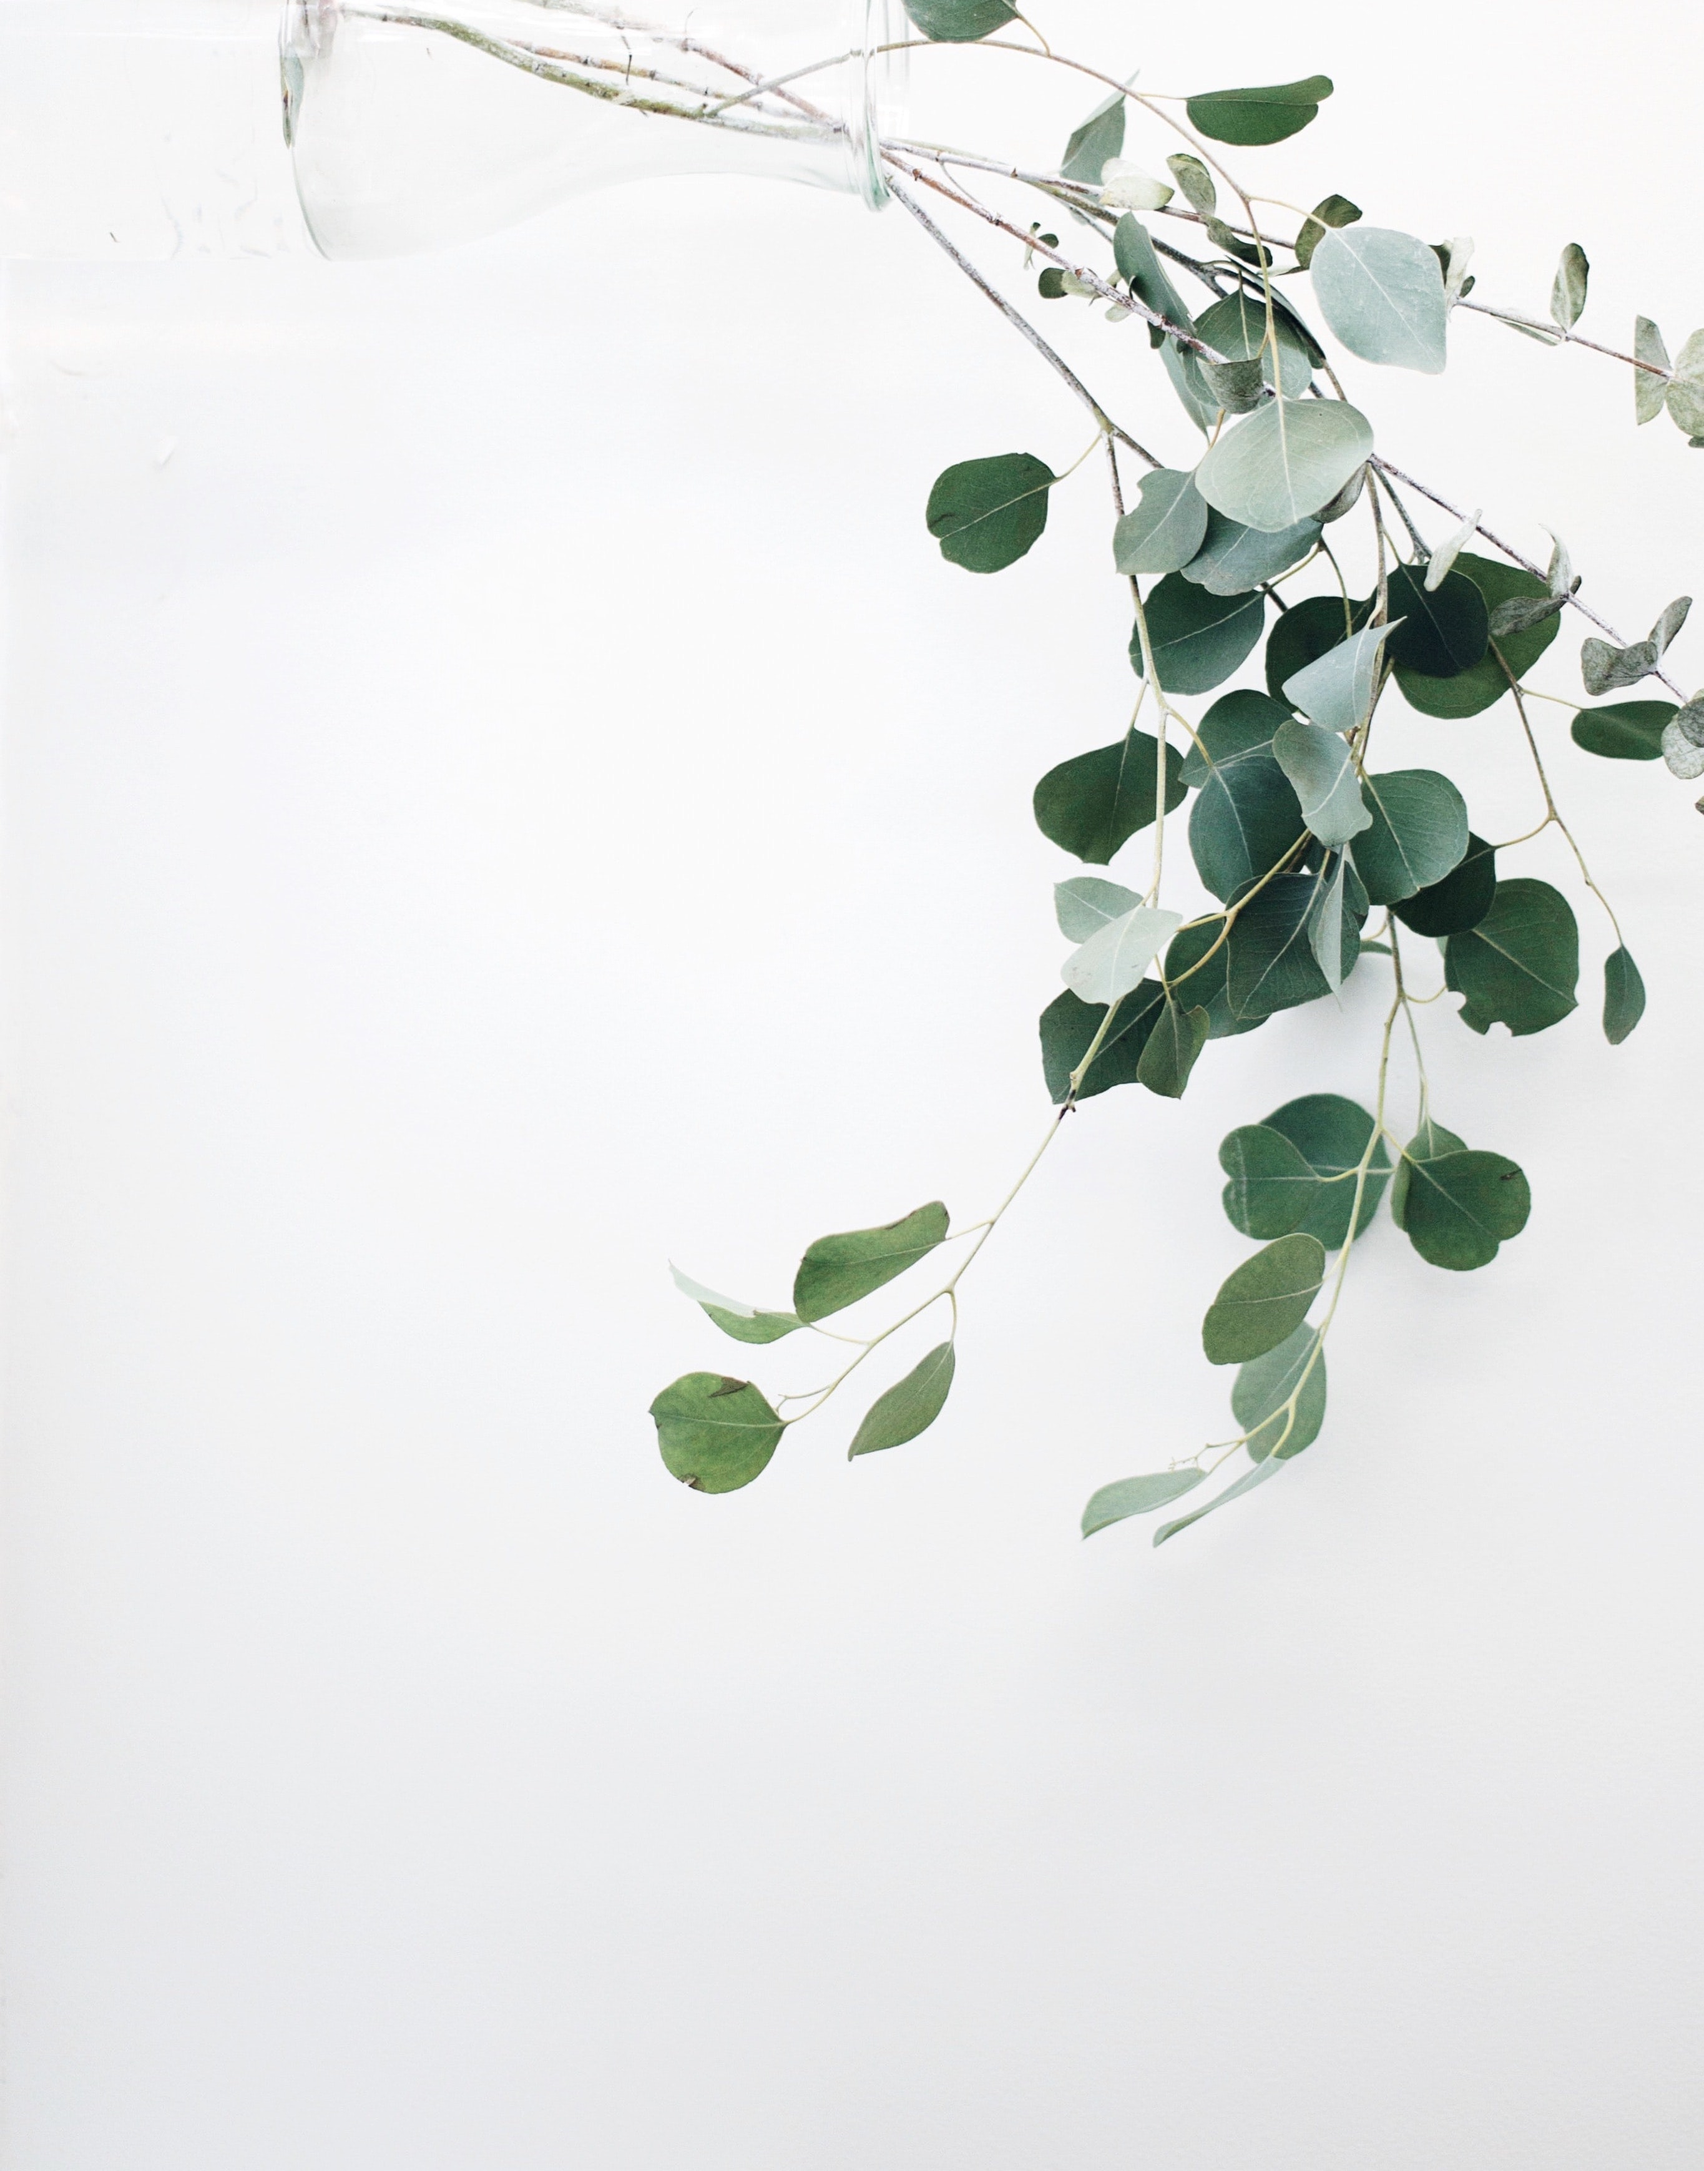
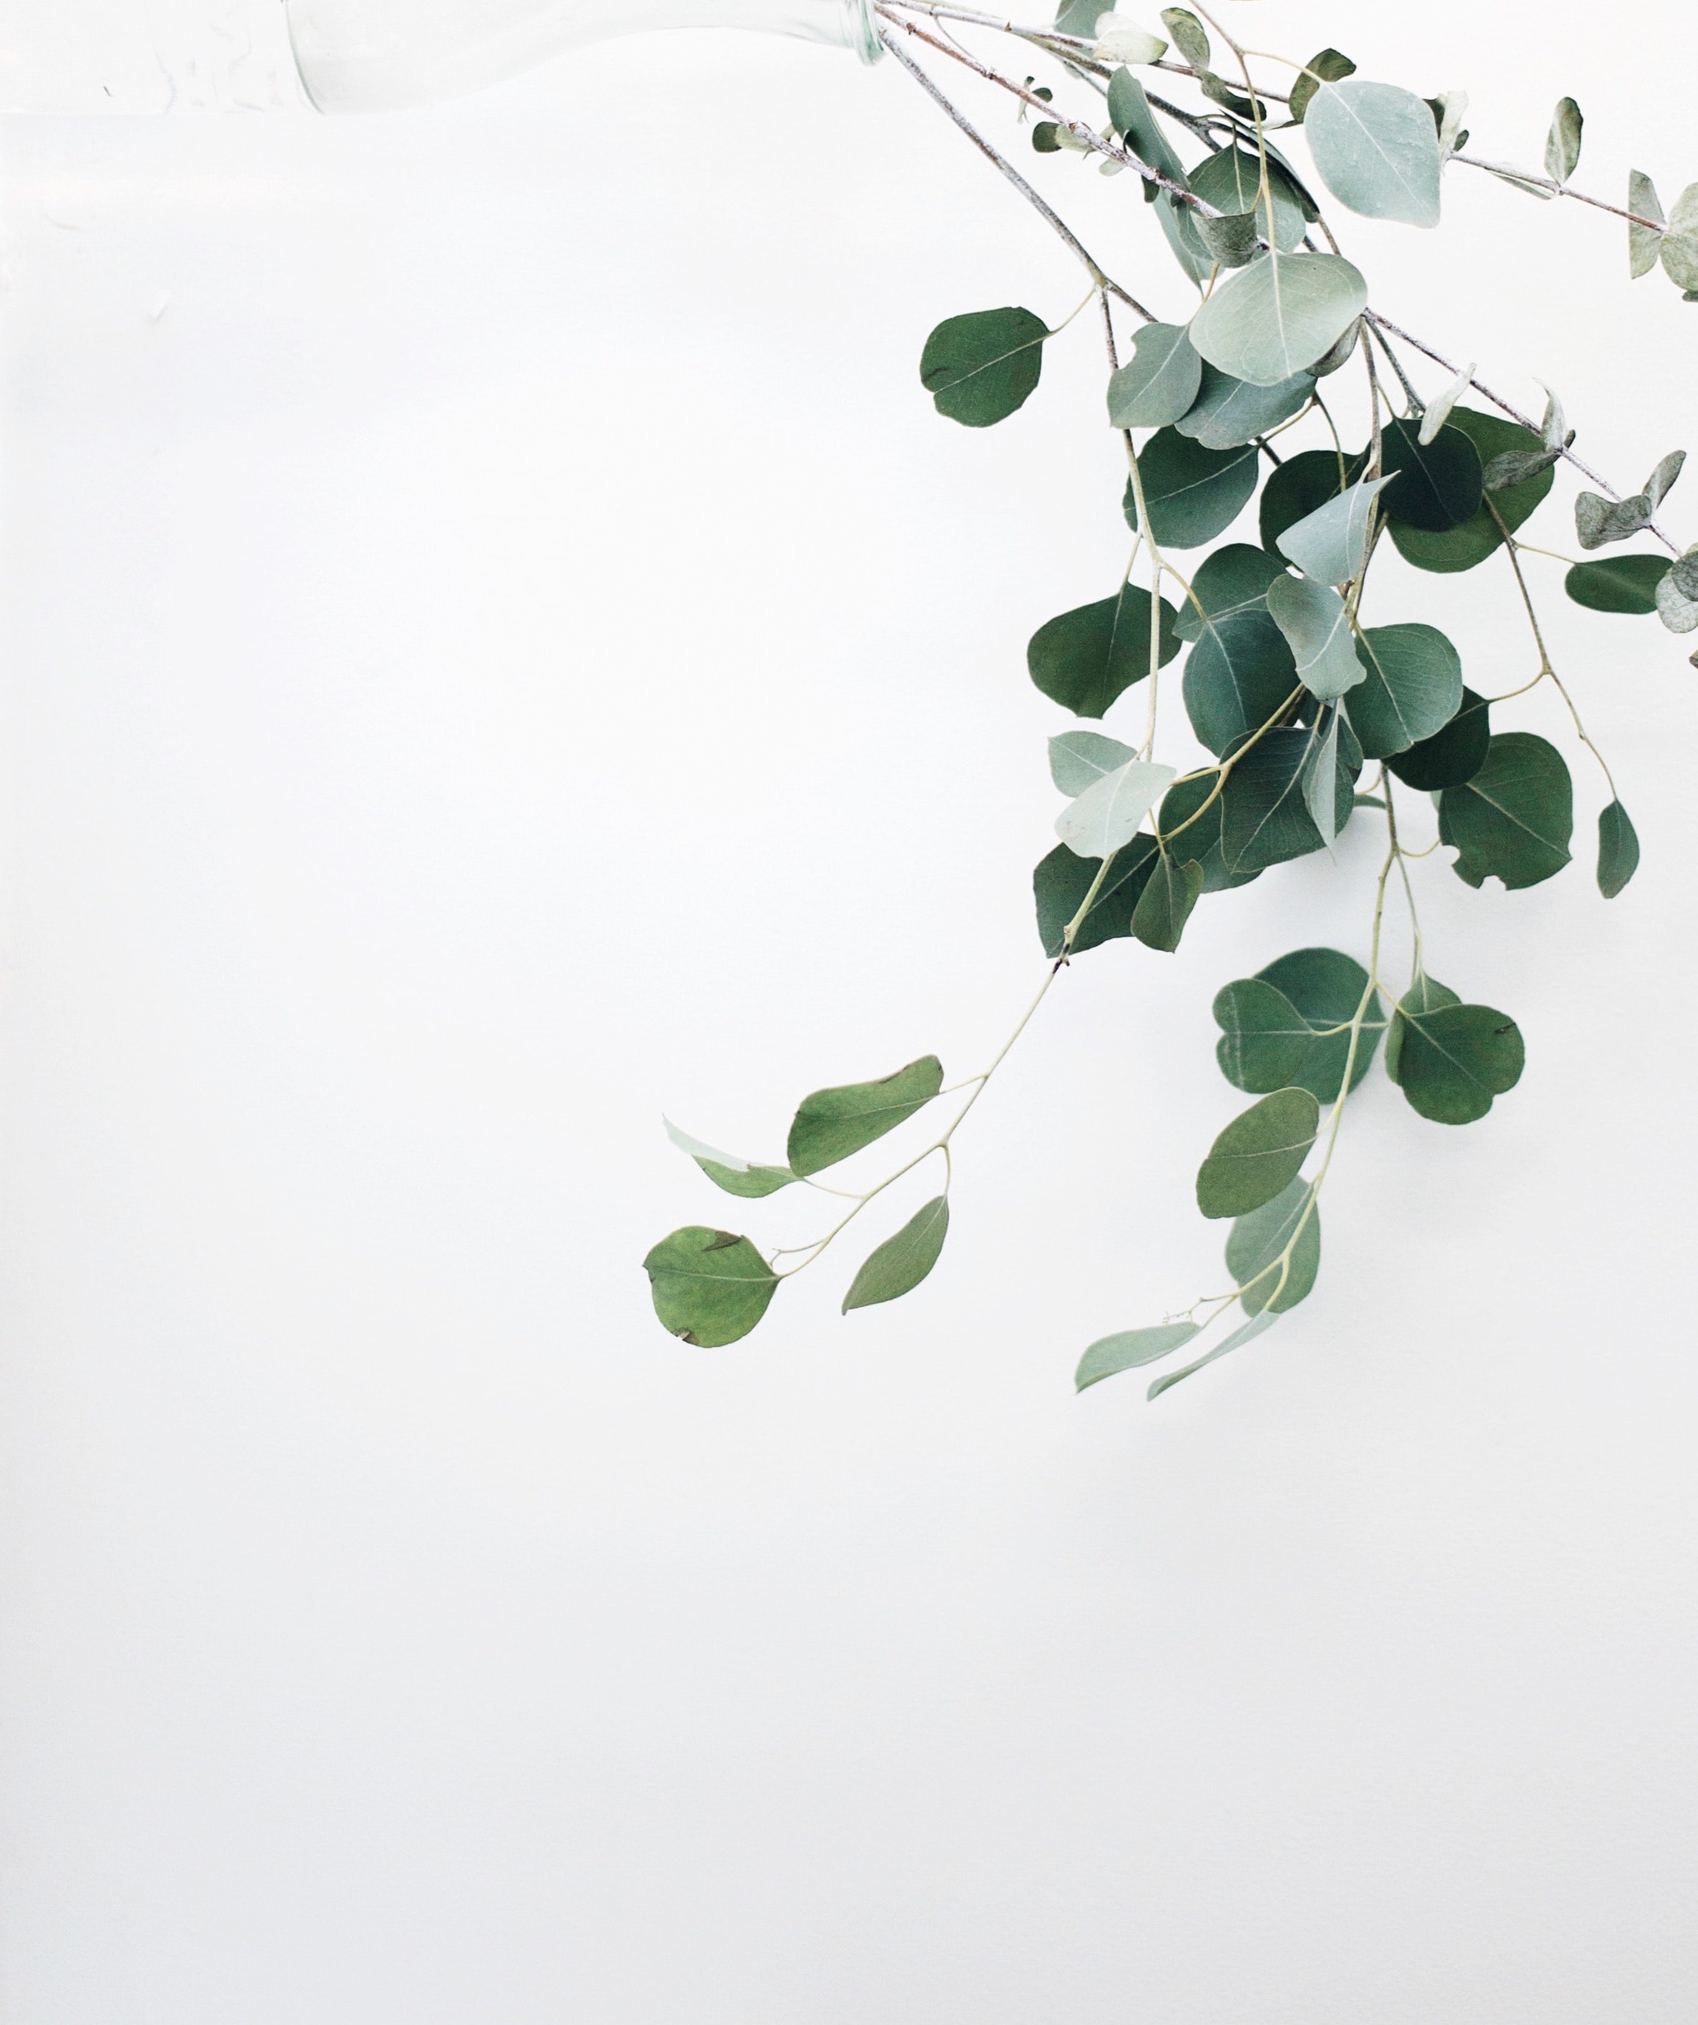
centered show page and login buttons, changed sesion background

Changed region(s): [[0.5, 0.0, 1.0, 0.7161], [0.375, 0.4982, 0.5938, 0.685], [0.1562, 0.0, 0.5, 0.0623]]

diff --git a/app/assets/stylesheets/products/product_show.scss b/app/assets/stylesheets/products/product_show.scss
@@ -11,28 +11,21 @@
     display:flex;
 }
 .show-pic img{
-    height: 518px;
+    height: 100%;
     width: 100%;
 }
 
 .show-content-info-wrapper{
     display: flex;
     flex-direction: column;
-    // justify-content: space-around;
-    // align-items: center;
-    // width:50%;
     height: 100%;
-    border: 1px solid pink;
     padding: 13% 10%;
 }
 
 .show-info{
-    // height: 80%;
     display: flex;
     flex-direction: column;
-    // justify-content: space-evenly;
     align-content: flex-start;
-    border: 1px solid blue
 }
 
 .show-basic-info{
@@ -59,7 +52,6 @@
 .show-product-description{
     max-width: 24vw;
     height: 100%;
-    // width:51%;
     font-size: 15px;
     font-family: "Unica77 LL",sans-serif;
     line-height: 20px;
@@ -71,19 +63,19 @@
     font-family: "Unica77 LL",sans-serif;
 }
 
-.show-info-btn{
-    display: flex;
-    justify-content: flex-start;
-    // width: 75%;
-    width: 100%;
+// .show-info-btn{
+//     display: flex;
+//     justify-content: flex-start;
+//     // width: 75%;
+//     width: 100%;
 
-}
+// }
 
 .show-info-btn{
    border-top: 1px solid;
    border-bottom: 1px solid black;
-//    width: 100%;
-   border: 1px solid purple
+   padding-top: 2%;
+   padding-bottom: 2%;
 
 }
 
@@ -95,7 +87,7 @@
     color:#A9A9A9;
     text-decoration: none;
     padding:2%;
-     transition: all 0.3s ease-in-out;
+    transition: all 0.3s ease-in-out;
 }
 
 .show-read-more:hover{
@@ -107,28 +99,38 @@
 }
 
 .inner-show-info-btn{
-    display: flex;
-    justify-content: space-between;
-    padding-left: 12%    
+    display: flex; 
+    // padding: 2%; 
+    // width: 100%
 }
 
 
 .show-share{
-    padding-right: 10%;
+    // padding-right: 5%;
+    width: 50%;
+    // border: 1px solid purple
 }
 
 .show-icon{
     display:flex;
     flex-direction: row;
-    justify-content: space-between;
+    // justify-content: space-between;
     width: 100%;
+    // border:1px solid blue
 
 }
 
 
 .fab ,.fa-facebook-square{
-    font-size: 20px;
+    font-size: 30px;
+    // padding-top: 2%;
+    padding-right: 7%;
 }
+
+.fab ,.fa-facebook-square:hover{
+    cursor: pointer;
+}
+
 .fab ,.fa-twitter-square{
     font-size: 20px;
 }

diff --git a/app/assets/stylesheets/session_form.scss b/app/assets/stylesheets/session_form.scss
@@ -40,7 +40,8 @@
     max-height: 80%;
     display:flex;
     box-shadow: grey;
-    background: url('plant3.jpg') no-repeat center center fixed;
+    // background-color: #EDEDED;
+    background: url('6.jpg') no-repeat center center fixed;
     animation: session-drop 1s ease forwards;
 }
 
@@ -123,6 +124,7 @@ input{
     border: 1px solid lightgray;
     font-family: "Unica77 LL",sans-serif;
     transition: all 0.3s ease-in-out;
+    padding-top:3%;
     // transition-duration: 0.5s;
 }
 
